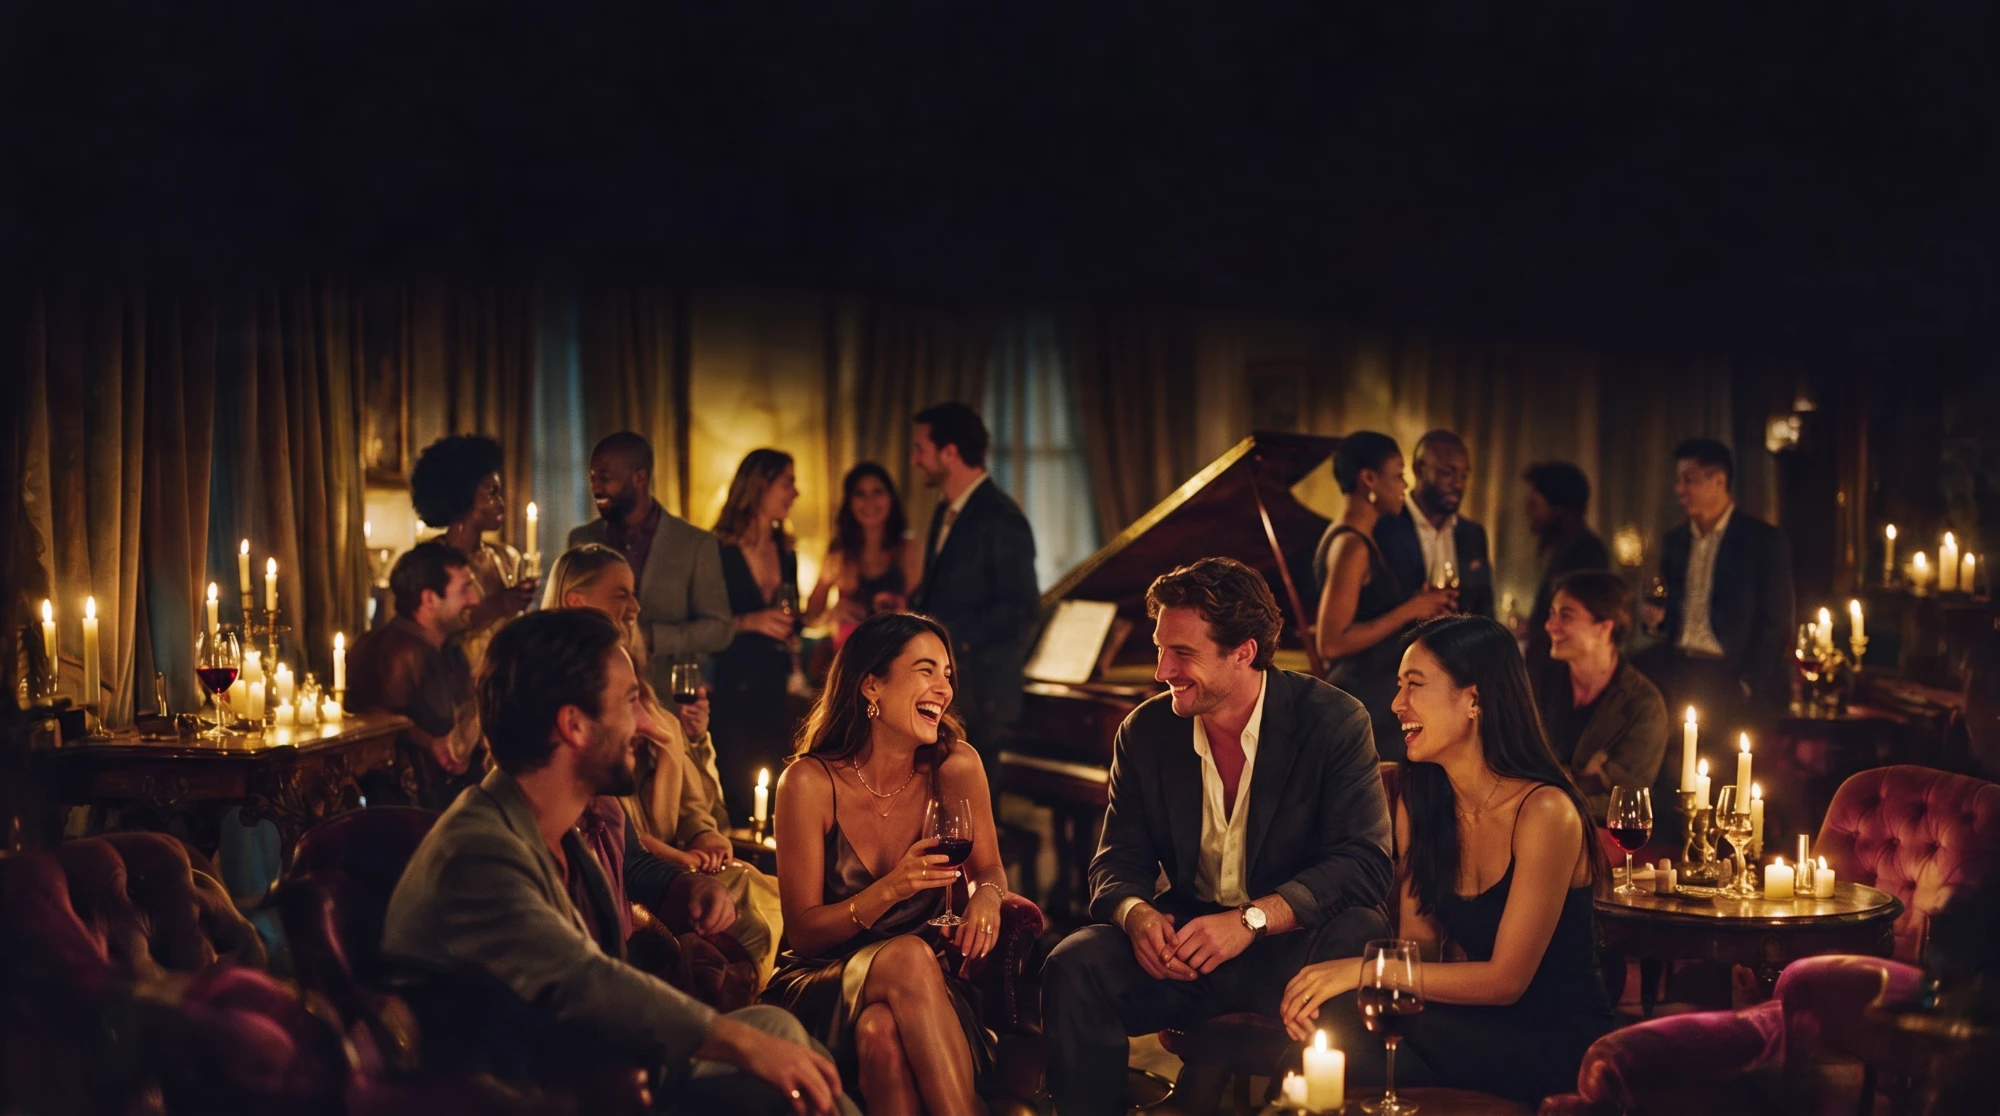
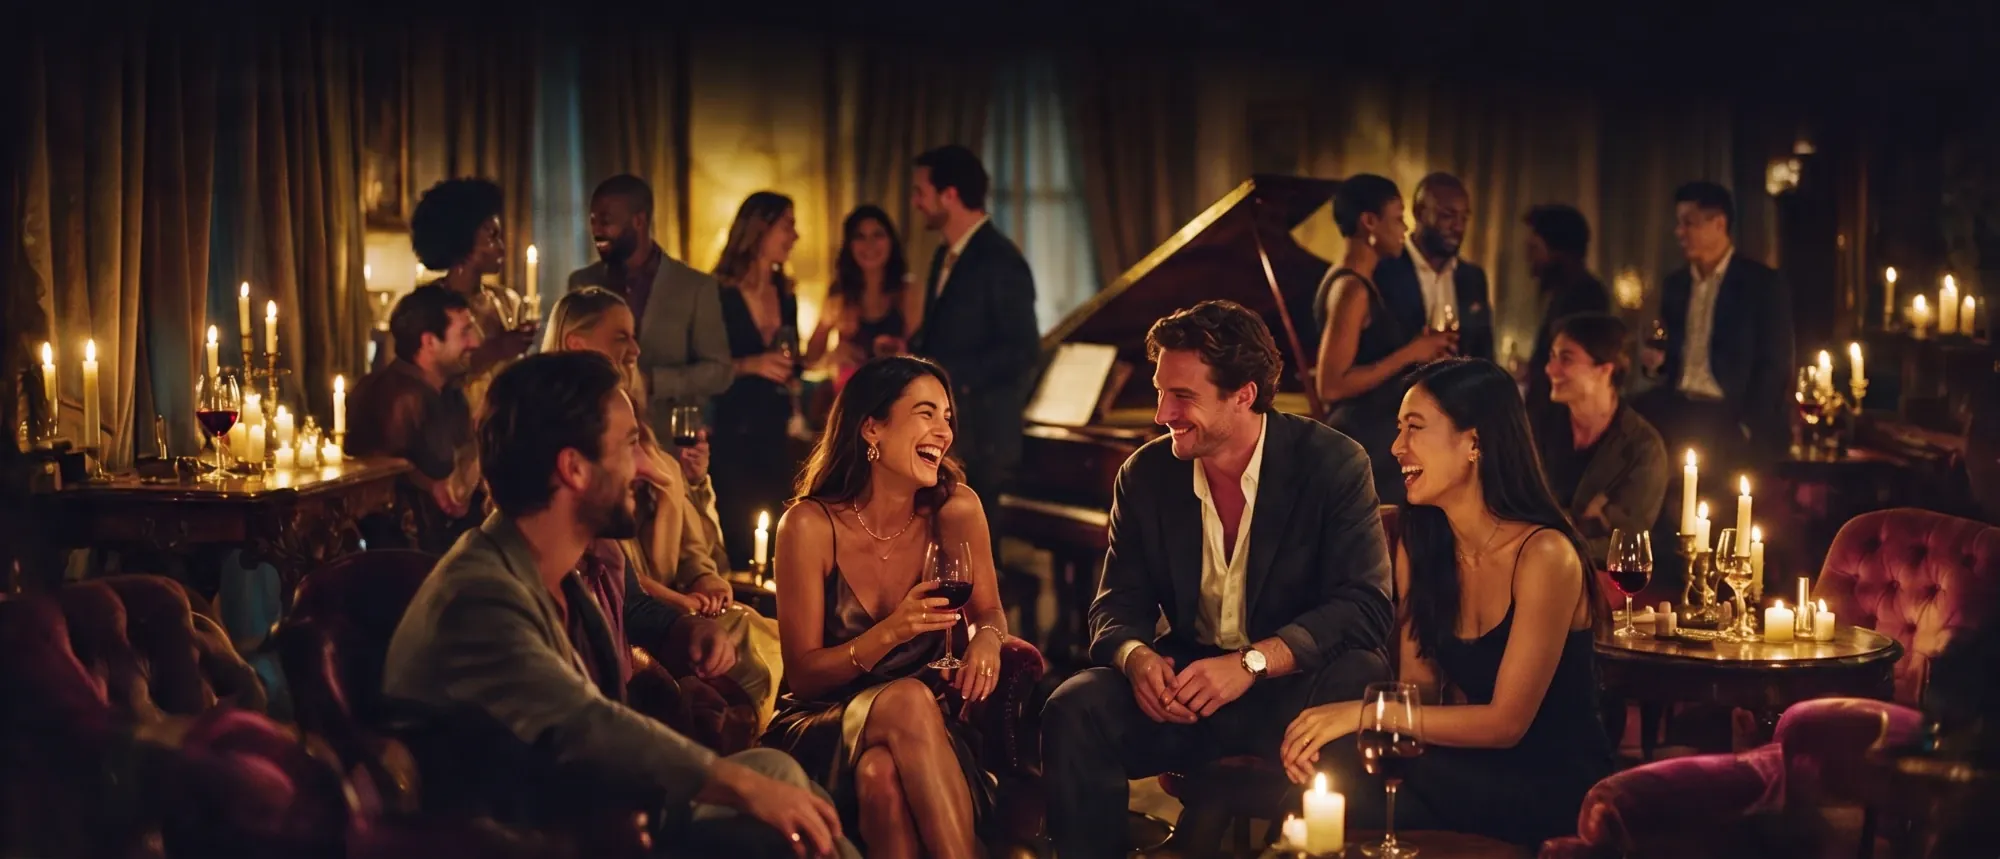
Swap in tighter hero crop
User-supplied recrop (2000x859) removes the black headroom so the
room fills the frame at every ratio. Regenerated the 1400w tier and
the 800x1000 portrait crop for mobile; hero img dimensions updated.

Claude-Session: https://claude.ai/code/session_01FrziaHuQYwVPNKSifqY91X

diff --git a/index.html b/index.html
@@ -81,7 +81,7 @@
       <picture>
         <source media="(max-width: 640px)" srcset="assets/hero-poster-mobile.webp">
         <source media="(max-width: 1280px)" srcset="assets/hero-poster-1400.webp">
-        <img class="hero-poster" src="assets/hero-poster.webp" alt="" width="2000" height="1116" fetchpriority="high" decoding="async">
+        <img class="hero-poster" src="assets/hero-poster.webp" alt="" width="2000" height="859" fetchpriority="high" decoding="async">
       </picture>
       <video class="hero-video" muted autoplay loop playsinline data-src="[HERO_VIDEO_URL]"></video>
     </div>
